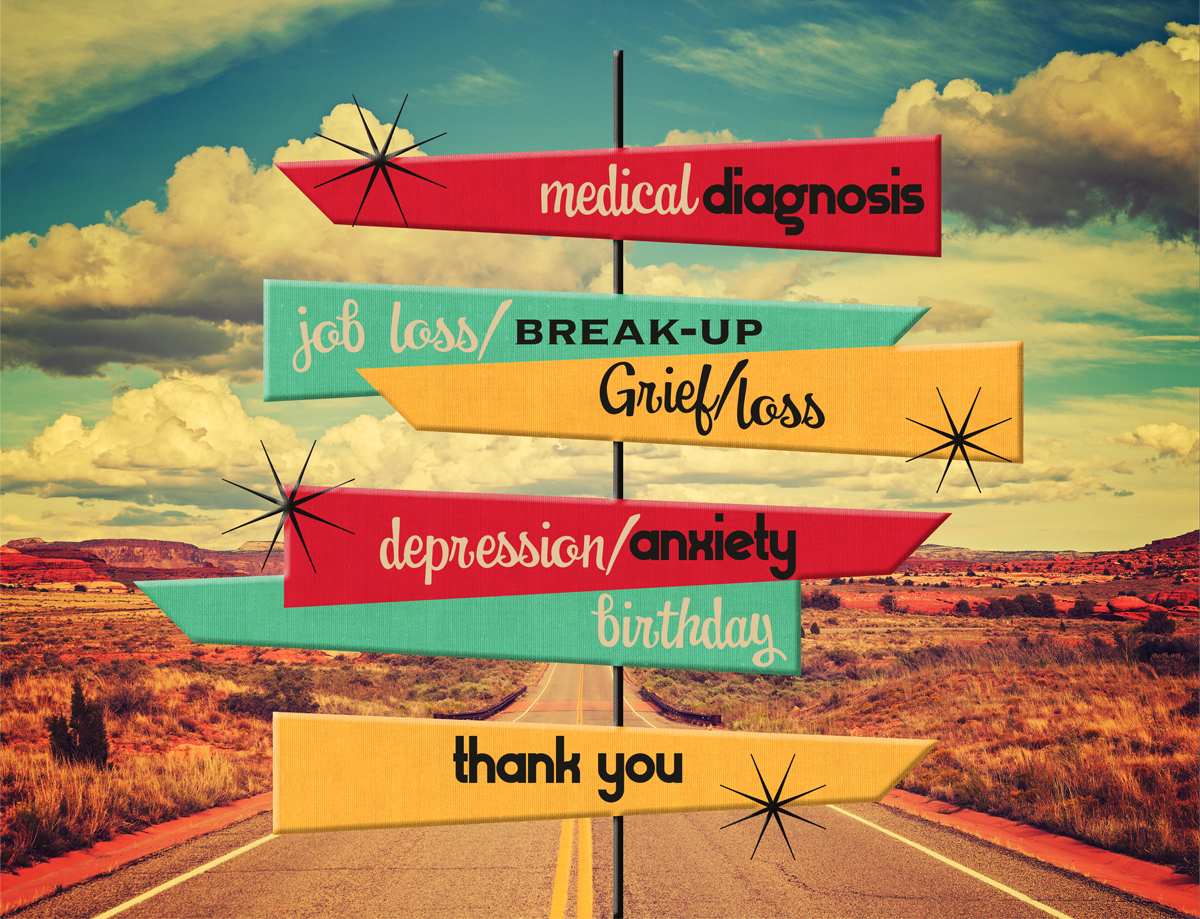
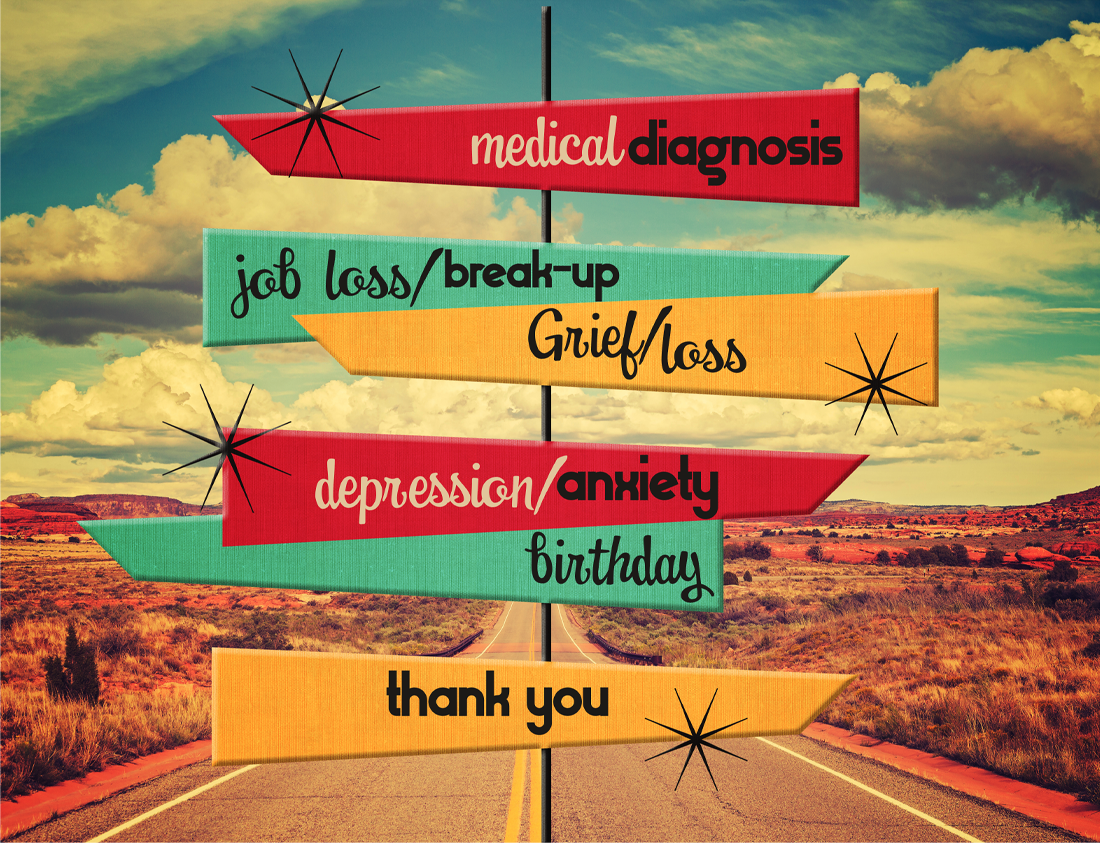
Add files via upload

Changed region(s): [[0.0, 0.0, 1.0, 1.0], [0.0927, 0.9253, 0.1545, 0.9561], [0.9891, 0.0, 1.0, 0.0308]]

diff --git a/index.html b/index.html
@@ -200,10 +200,10 @@ body{font-family:'DM Sans',sans-serif;background-color:var(--bg);background-imag
 .occ-subtext::after{right:0}
 
 /* OCCASION MENU — MARQUEE */
-.occ-menu-wrap{background:var(--bg);border-top:none;border-bottom:1px solid var(--bdr);padding:0}
-.occ-menu-wrap .marquee-wrap{max-width:100%;margin:0;padding:0}
-.occ-menu-wrap .marquee-inner{width:100%}
-.occ-menu-wrap .marquee-bg{width:100%;height:auto;display:block}
+.occ-menu-wrap{background:var(--bg);border-top:none;border-bottom:1px solid var(--bdr);padding:0;width:100%}
+.occ-menu-wrap .marquee-wrap{max-width:100%;width:100%;margin:0;padding:0}
+.occ-menu-wrap .marquee-inner{width:100%;display:block}
+.occ-menu-wrap .marquee-bg{width:100%;height:auto;display:block;max-width:100%}
 .marquee-wrap{max-width:480px;margin:0 auto}
 .pt-wrap{max-width:420px}
 .pt-gallery-wrap{position:relative;width:100%;overflow:hidden}
@@ -410,6 +410,11 @@ footer{background:var(--bg2);border-top:1px solid var(--bdr);padding:32px;margin
 
 <!-- OCCASION MENU -->
 <div class="occ-menu-wrap">
+  <div class="occ-heading-wrap">
+    <div class="occ-heading-top">What's the</div>
+    <div class="occ-heading-bottom">Occasion?</div>
+    <p class="occ-subtext">Here's a starting point. Our cards can be used for more than one occasion.</p>
+  </div>
   <div class="marquee-wrap">
     <div class="marquee-inner">
       <img class="marquee-bg" src="https://raw.githubusercontent.com/SmartAss-Cards/smartass-cards/main/test_1999.png" alt="Occasion Menu">
